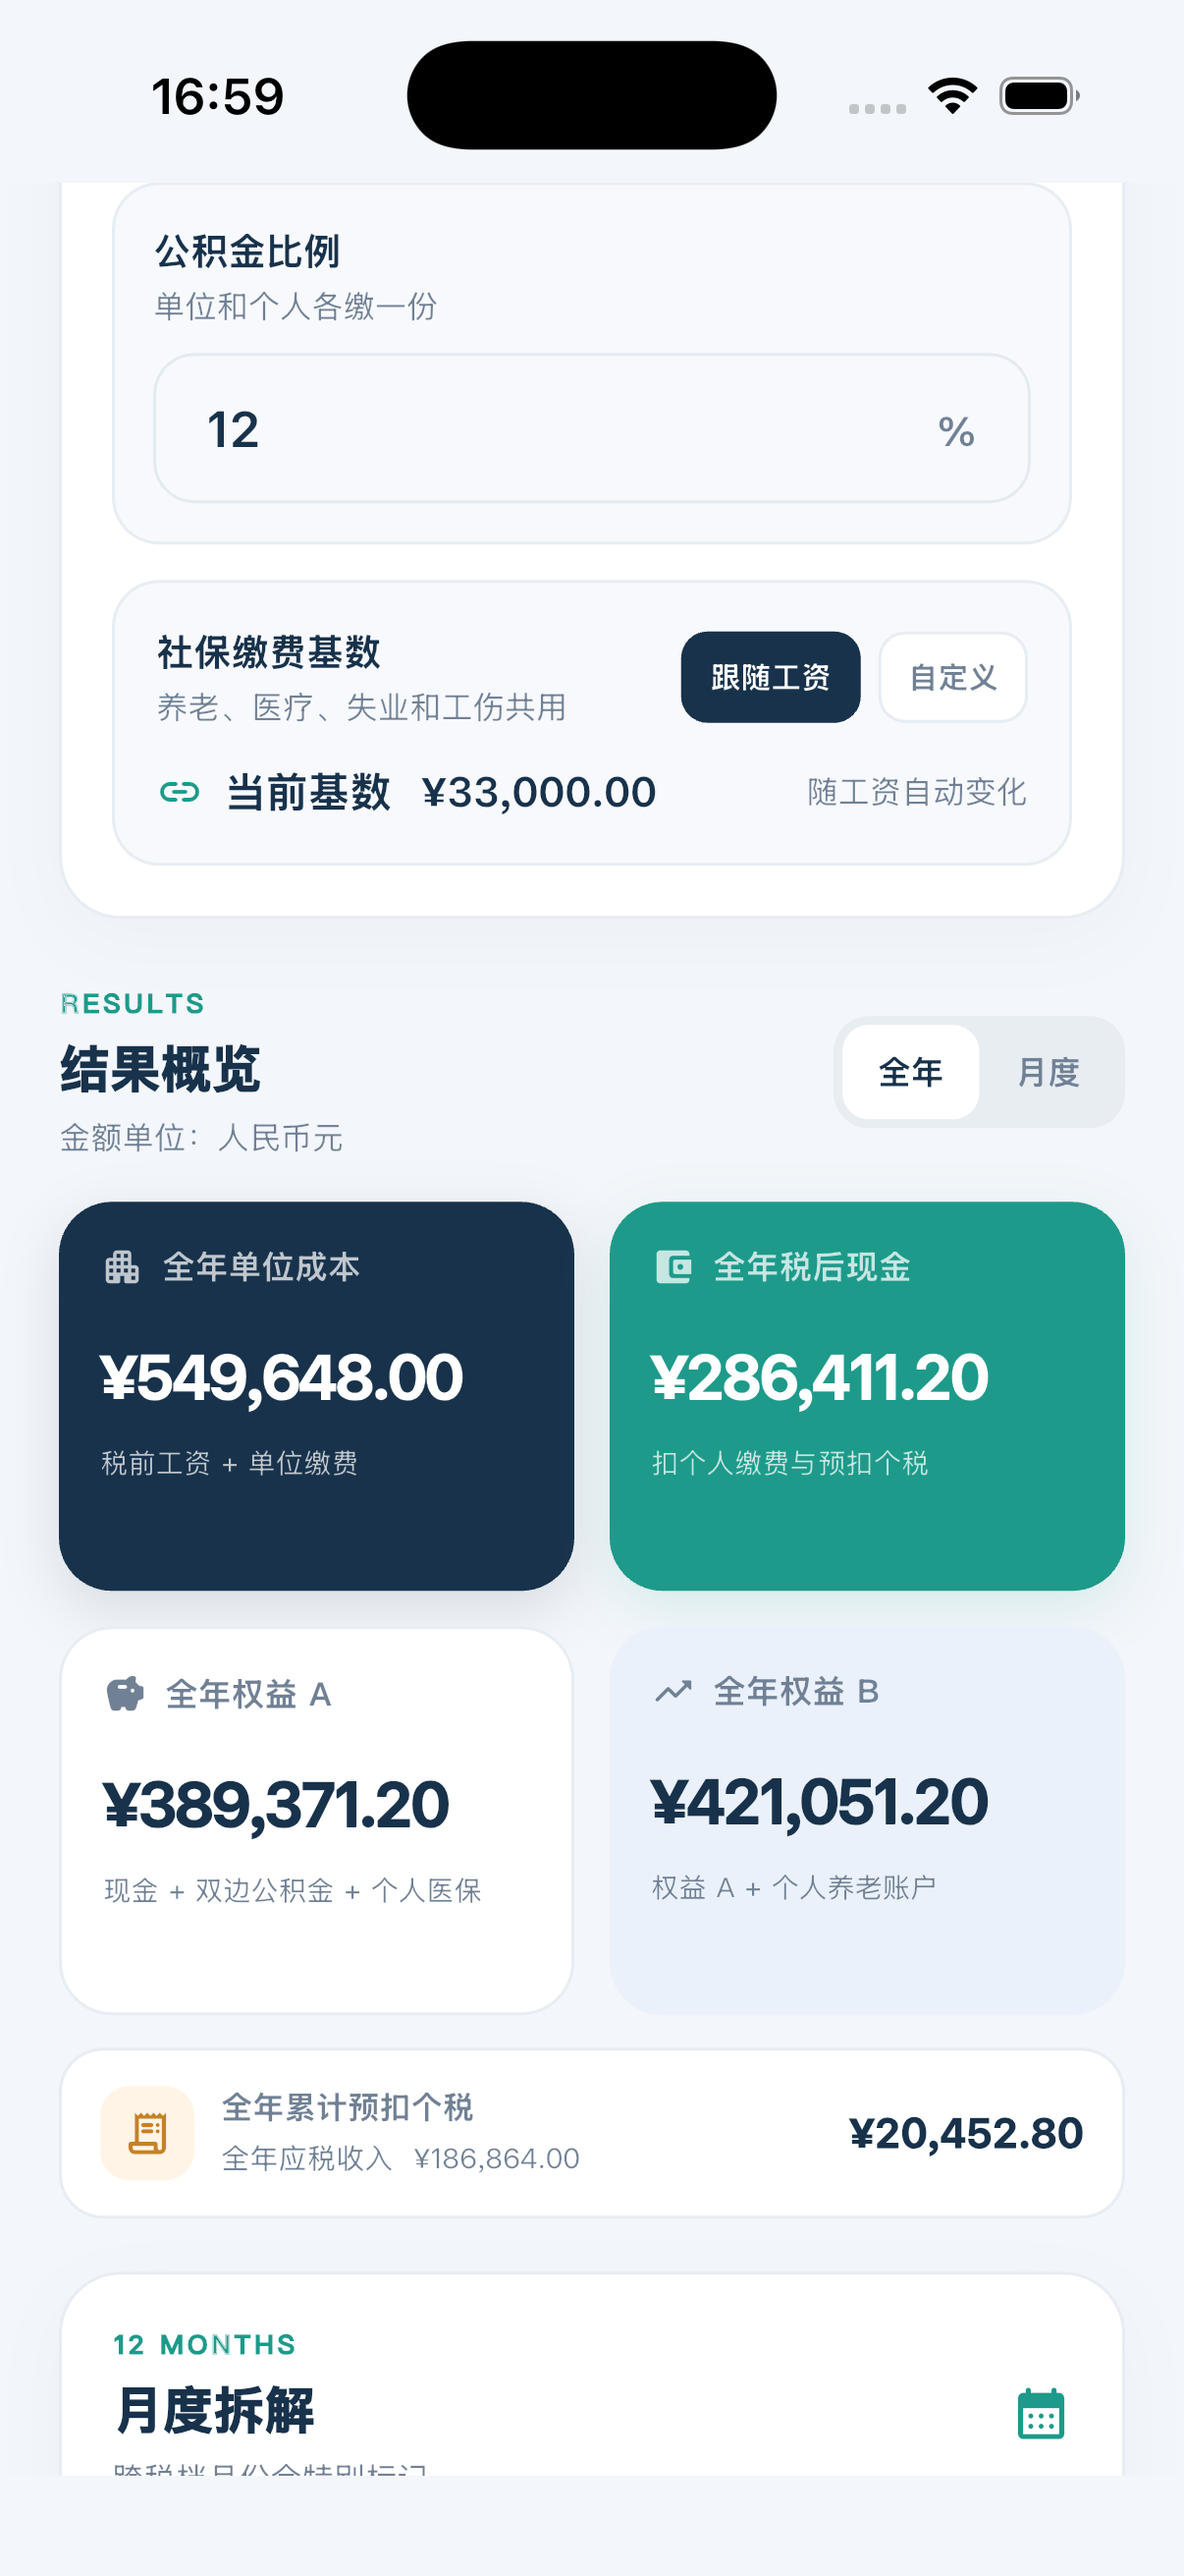
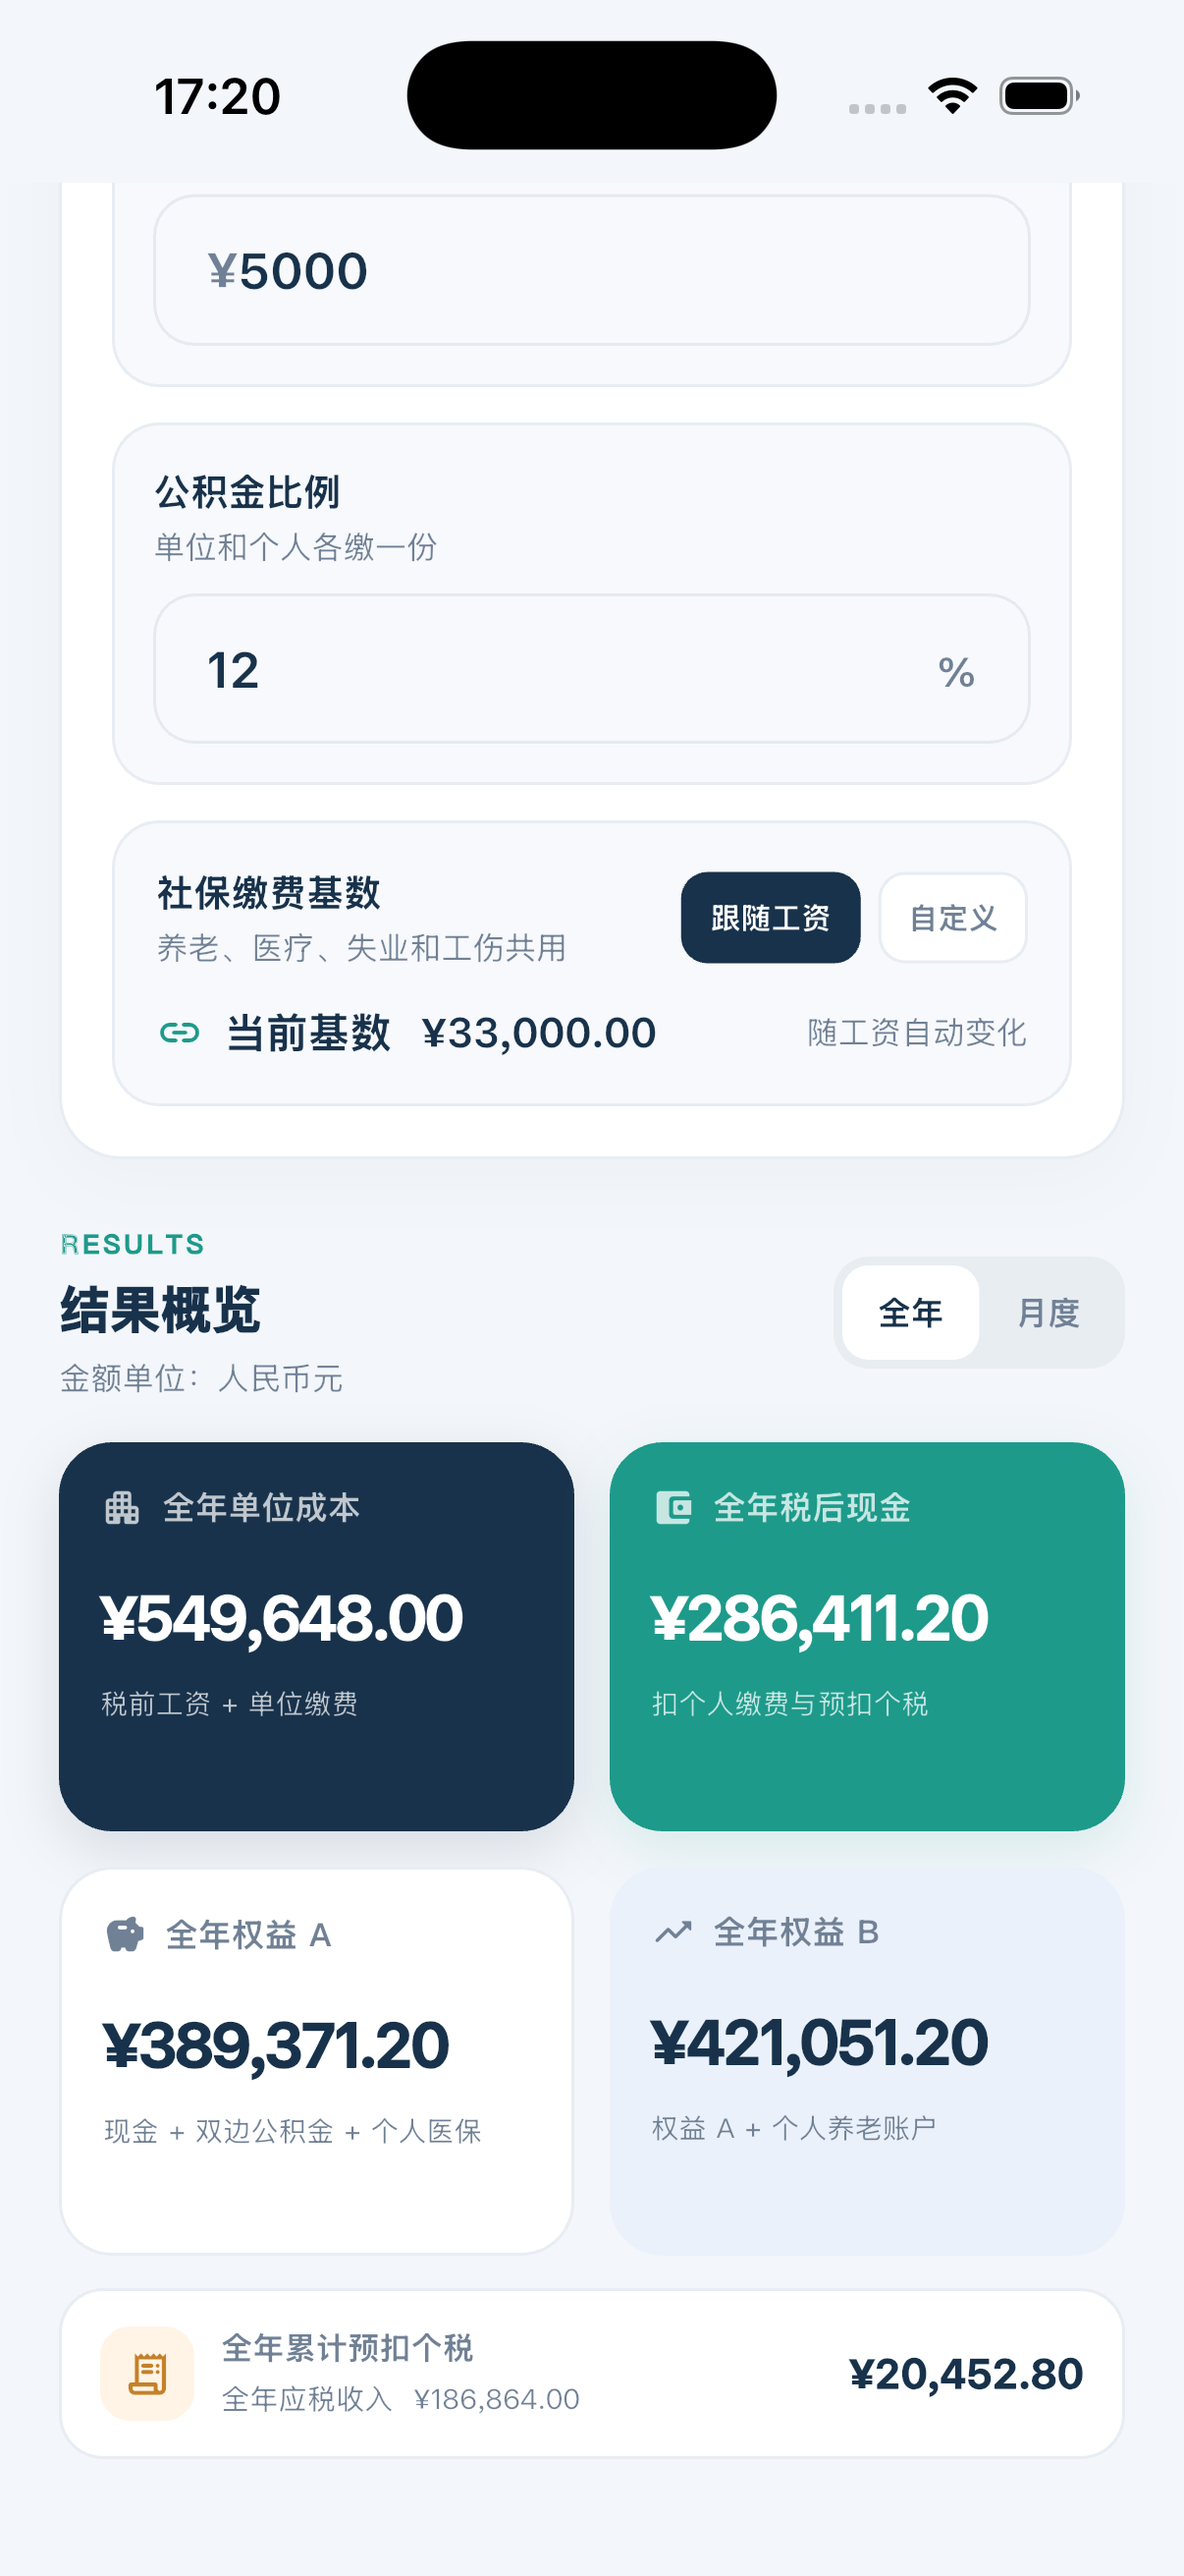
docs: update monthly breakdown and screenshots

diff --git a/doc/薪酬测算Flutter产品设计文档.md b/doc/薪酬测算Flutter产品设计文档.md
@@ -146,13 +146,13 @@ MVP 使用单页计算器，不要求用户在多个页面间往返：
 2. 参数区：税前工资、专项附加扣除、社保基数、公积金比例。
 3. 结果区：单位成本、税后现金、权益 A、权益 B 四张指标卡。
 4. 结果范围切换：全年 / 月度；月度模式提供 1–12 月选择器。
-5. 月度明细：每月个税、到手现金、权益 A、权益 B 和税档。
+5. 月度拆解卡片：默认折叠，显示全年或当前所选月份的预览；展开后列出 12 个月的个税、到手现金、权益 A、权益 B 和税档。
 6. 计算依据：可展开查看单位和个人缴费、累计应税收入、税率及权益构成。
 7. 说明区：测算口径、地区差异和非正式工资单提示。
 
 ### 7.2 首屏层级
 
-首屏优先展示全年四项指标，参数区保留足够显著的编辑入口。纵向滚动后可查看月度明细和完整计算依据。小屏设备上结果卡片使用两列布局；窄屏可改为单列。
+首屏优先展示全年四项指标，参数区保留足够显著的编辑入口。纵向滚动后可查看月度拆解和完整计算依据。月度拆解默认收起，全年模式显示 12 个月预览提示，月度模式显示所选月份的税档和税后现金；展开后查看完整逐月列表。小屏设备上结果卡片使用两列布局；窄屏可改为单列。
 
 ### 7.3 参数交互
 
@@ -165,8 +165,8 @@ MVP 使用单页计算器，不要求用户在多个页面间往返：
 
 ### 7.4 结果交互
 
-- 全年视图显示四项年度总和，并提供 12 个月的逐月明细。
-- 月度视图显示选定月份四项指标和当月个税；提供月份切换。
+- 全年视图显示四项年度总和；月度拆解卡片可折叠或展开，折叠时显示全年预览，展开后提供 12 个月的逐月明细。
+- 月度视图显示选定月份四项指标和当月个税；折叠的月度拆解卡片预览所选月份，展开后仍可查看完整逐月列表，点击月份即可切换结果。
 - 当累计应纳税所得额跨档时，在该月标记“进入 X% 档”，并可在计算依据解释变化来源。
 - 点击权益 A 或权益 B 查看组成；权益 B 中的个人养老账户单独标出。
 - 当社保基数不是工资全额时，在结果附近显示“自定义社保基数”提示。
@@ -196,6 +196,7 @@ MVP 使用单页计算器，不要求用户在多个页面间往返：
 - 首次打开即显示 33,000 元默认工资、5,000 元专项附加扣除、12% 公积金比例及跟随工资的社保基数。
 - 四项参数均可编辑；编辑后核心指标和逐月税额即时刷新。
 - 用户能切换全年和任一月份，看到单位成本、税后现金、权益 A、权益 B。
+- 月度拆解卡片支持折叠和展开；折叠态按当前结果模式显示预览，展开态列出 12 个月并支持点选月份。
 - 默认方案四项全年结果符合第 6.4 节，逐月税档变化符合演示数据。
 - 计算依据能解释个人与单位缴费、累计预扣税额、权益组成。
 - 个人医保进入权益 A；个人养老账户只额外进入权益 B。

diff --git a/README.md b/README.md
@@ -6,9 +6,9 @@
 
 ## 运行截图
 
-| 测算参数 | 全年结果 | 算法说明 |
-| --- | --- | --- |
-| <img src="screenshots/calculator.png" alt="薪酬测算参数页" width="240"> | <img src="screenshots/results.png" alt="全年测算结果页" width="240"> | <img src="screenshots/methodology.png" alt="算法说明页" width="240"> |
+| 测算参数 | 全年结果 | 月度拆解（展开） | 算法说明 |
+| --- | --- | --- | --- |
+| <img src="screenshots/calculator.png" alt="薪酬测算参数页" width="190"> | <img src="screenshots/results.png" alt="全年测算结果页" width="190"> | <img src="screenshots/monthly-expanded.png" alt="展开后的月度拆解" width="190"> | <img src="screenshots/methodology.png" alt="算法说明页" width="190"> |
 
 截图由 iPhone 17 模拟器实际运行应用后截取。
 
@@ -17,6 +17,7 @@
 - **即时薪酬测算**：编辑月税前工资、每月专项附加扣除、公积金比例和社保缴费基数，结果随输入更新。
 - **灵活设置缴费基数**：社保基数可以跟随工资，也可以自定义；应用不会自动套用地区缴费上下限。
 - **查看全年或逐月结果**：查看全年汇总或选择月份，包含个税、税后现金和权益变化；跨越个税档位的月份会特别标记。
+- **折叠月度拆解**：默认以全年或当前所选月份作为预览；展开后查看 12 个月的个税、税后现金、权益和税档，并可点选月份切换结果。
 - **拆解收入与缴费**：展开“计算依据”查看个人扣款、单位缴费、累计应税收入、预扣税额和权益组成。
 - **对比两种权益口径**：权益 A 为税后现金加双边公积金和个人医疗缴费；权益 B 再加个人养老缴费。
 - **离线使用并保存参数**：设置保存在设备本地，重新打开后继续使用；可恢复默认参数。

diff --git a/doc/薪酬测算Flutter研发实现文档.md b/doc/薪酬测算Flutter研发实现文档.md
@@ -225,7 +225,7 @@ CalculationResult calculate(CalculatorInputs inputs, TaxAndContributionRules rul
 
 输入字段需支持部分编辑状态，例如暂时清空金额。无效草稿不可触发错误计算；界面显示对应字段提示，并避免旧结果被误认为是新草稿的结果。有效输入的计算应同步完成，计算后再异步写入本地存储。
 
-首版页面包括参数卡片、四项结果卡片、全年/月份选择、12 个月列表、计算依据展开区和测算说明。小屏两列或单列布局，所有输入控件提供语义标签。
+首版页面包括参数卡片、四项结果卡片、全年/月份选择、可折叠的月度拆解卡片、计算依据展开区和测算说明。月度拆解在收起时展示全年或当前所选月份的摘要，展开后列出 12 个月的税额、税后现金、权益和税档；点击月份行切换到对应的月度结果。小屏两列或单列布局，所有输入控件提供语义标签。
 
 ## 10. 错误处理与输入限制
 
